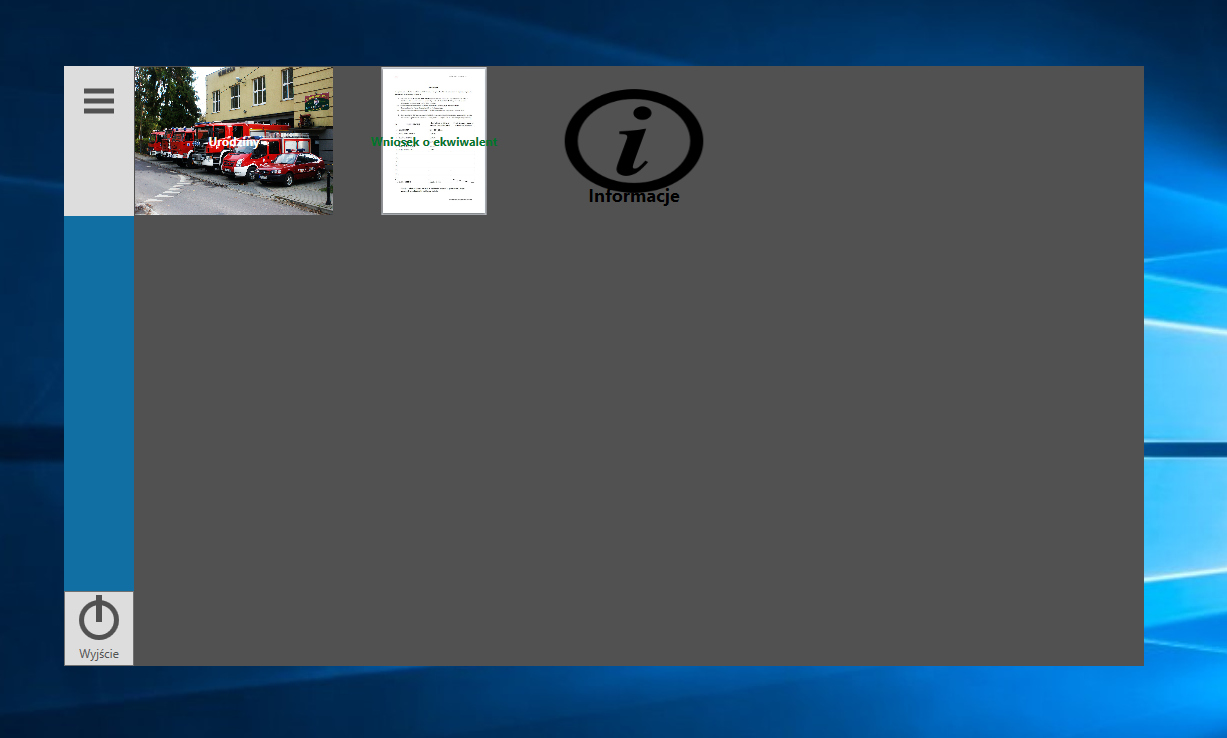
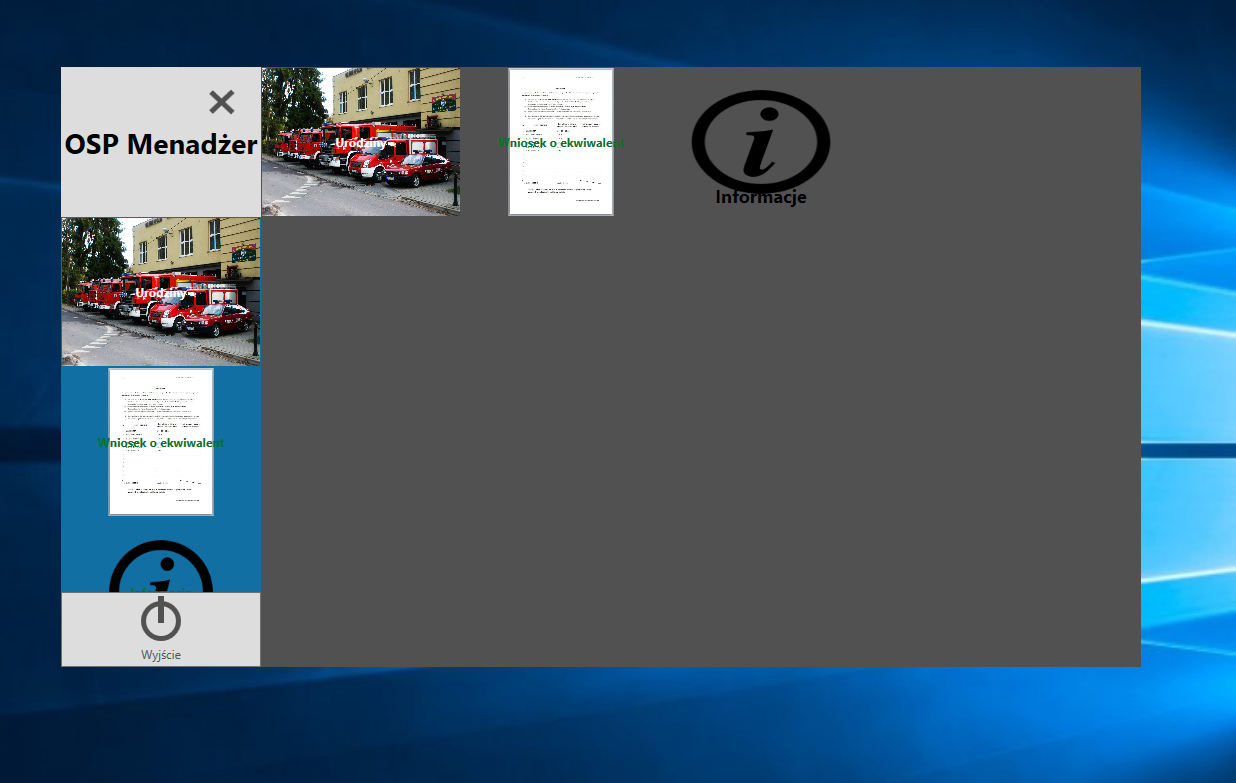
readme update

Changed region(s): [[0.0, 0.0623, 1.0, 1.0]]

diff --git a/README.md b/README.md
@@ -28,6 +28,28 @@ Some colors (styles) in calendar problems,
 
 Screenshots:
 -----------
-<div align="center">
+Screenshot 1 shows the start page of application and also unwrapped (expanded) burger menu with slider which lets the user to navigate between every modules of the application.
+<div align="center">	
     <img src="/screenshots/ss1.PNG" width="400px"</img> 
+</div>
+
+Screenshot 2 shows first module of the application
+<div align="center">	
+    <img src="/screenshots/ss2.PNG" width="400px"</img> 
+</div>
+
+Screenshot 3, 4 & 5 shows briefly the possibilities of the second module.
+<div align="center">	
+    <img src="/screenshots/ss3.PNG" width="400px"</img> 
+</div>
+<div align="center">	
+    <img src="/screenshots/ss4.PNG" width="400px"</img> 
+</div>
+<div align="center">	
+    <img src="/screenshots/ss5.PNG" width="400px"</img> 
+</div>
+
+Screenshot 6 shows the information module.
+<div align="center">	
+    <img src="/screenshots/ss6.PNG" width="400px"</img> 
 </div>
